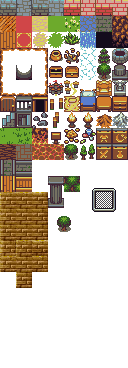
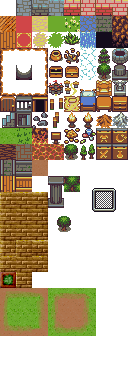
Added: New map made with Tiled

diff --git a/client/main.js b/client/main.js
@@ -6,7 +6,7 @@ import Wall from '/imports/GameObjects/Wall'
 import Player from '/imports/GameObjects/Player'
 import { physics } from '/imports/physics.js'
 import { gameObjects } from '/imports/game.js'
-import { map1 } from '../imports/maps'
+import map1 from '/imports/maps/map1.json'
 import { playSoundAt } from '/client/sounds'
 import { wholeStage, stage, canvas, ctx } from '/client/stage.js';
 import { myID, getCurrentUser } from '/client/currentUser.js';
@@ -15,7 +15,7 @@ import { updateVisibility } from '/client/helpers'
 const { b2Vec2 } = Common.Math;
 import './main.html';
 require('createjs-easeljs');
-//require('/imports/debug.js');
+require('/imports/debug.js');
 
 Template.body.onCreated(() => {
   setTimeout(() => {
@@ -133,24 +133,21 @@ Template.body.onCreated(() => {
     });
 
     function LoadMap(map) {
-
       const tiles = new createjs.SpriteSheet({
-        images: [map.spritesheet],
+        images: ['/basictiles.png'],
         frames: {width: 16, height: 16, regX: 0, regY: 0},
       });
+      map.layers.forEach((layer) => {
+        layer.data.forEach((frame, i) => {
+          const x = i % layer.width;
+          const y = Math.floor(i / layer.width);
+          const tile = new createjs.Sprite(tiles);
+          tile.gotoAndStop(frame - 1);
+          tile.x = 16 * x;
+          tile.y = 16 * y;
+          stage.addChild(tile);
 
-      map.layouts.forEach((layout) => {
-        layout.forEach((row, y) => {
-          row.forEach((frame, x) => {
-            if (frame < 0) return;
-            const tile = new createjs.Sprite(tiles);
-            tile.gotoAndStop(frame);
-            tile.x = 16 * x;
-            tile.y = 16 * y;
-            stage.addChild(tile);
-
-            updateVisibility(tile, 0.7);
-          });
+          updateVisibility(tile, 0.7);
         });
       });
     }

diff --git a/imports/GameObjects/Wall.js b/imports/GameObjects/Wall.js
@@ -4,7 +4,7 @@ const { b2Vec2 } = Common.Math;
 const { b2BodyDef, b2Body, b2FixtureDef } = Dynamics;
 import { BodyDef, RectShape, FixtureFn } from '/imports/box2dBuilders';
 import { randomHex } from '/imports/helpers.js'
-import { map1 } from '/imports/maps'
+import map1 from '/imports/maps/map1.json'
 
 export default class Wall extends GameObject {
   constructor(id, position) {
@@ -18,11 +18,11 @@ export default class Wall extends GameObject {
 }
 
 // Initialize all existing walls
-map1.layouts.forEach((layout) => {
-  layout.forEach((row, y) => {
-    row.forEach((frame, x) => {
-      if (!map1.physicalTiles[frame]) return;
-      new Wall(randomHex(50), new b2Vec2(x * 16 + 8, y * 16 + 8));
-    });
+map1.layers.forEach((layer) => {
+  layer.data.forEach((frame, i) => {
+    const x = i % layer.width;
+    const y = Math.floor(i / layer.width);
+    if (frame === 0 || !map1.tilesets[0].tileproperties[frame-1] || !map1.tilesets[0].tileproperties[frame-1].wall) return;
+    new Wall(randomHex(50), new b2Vec2(x * 16 + 8, y * 16 + 8));
   });
 });

diff --git a/client/helpers.js b/client/helpers.js
@@ -13,7 +13,7 @@ export function updateVisibility(sprite, alpha, spriteID) {
     const from = new b2Vec2(sprite.x + 8, sprite.y + 8);
     const to = new b2Vec2(getCurrentUser().data.x, getCurrentUser().data.y);
 
-    if (distanceToCurrentUser(from.x, from.y) > 70) {
+    if (distanceToCurrentUser(from.x, from.y) > 150) {
       sprite.alpha = alpha;
       return;
     }

diff --git a/client/stage.js b/client/stage.js
@@ -2,8 +2,8 @@ require('createjs-easeljs');
 
 export const stage = new createjs.Container();
 export const canvas = document.createElement('canvas');
-canvas.width = 450;
-canvas.height = 200;
+canvas.width = 600;
+canvas.height = 300;
 document.body.appendChild(canvas);
 export const ctx = canvas.getContext('2d');
 ctx.imageSmoothingEnabled = false;
